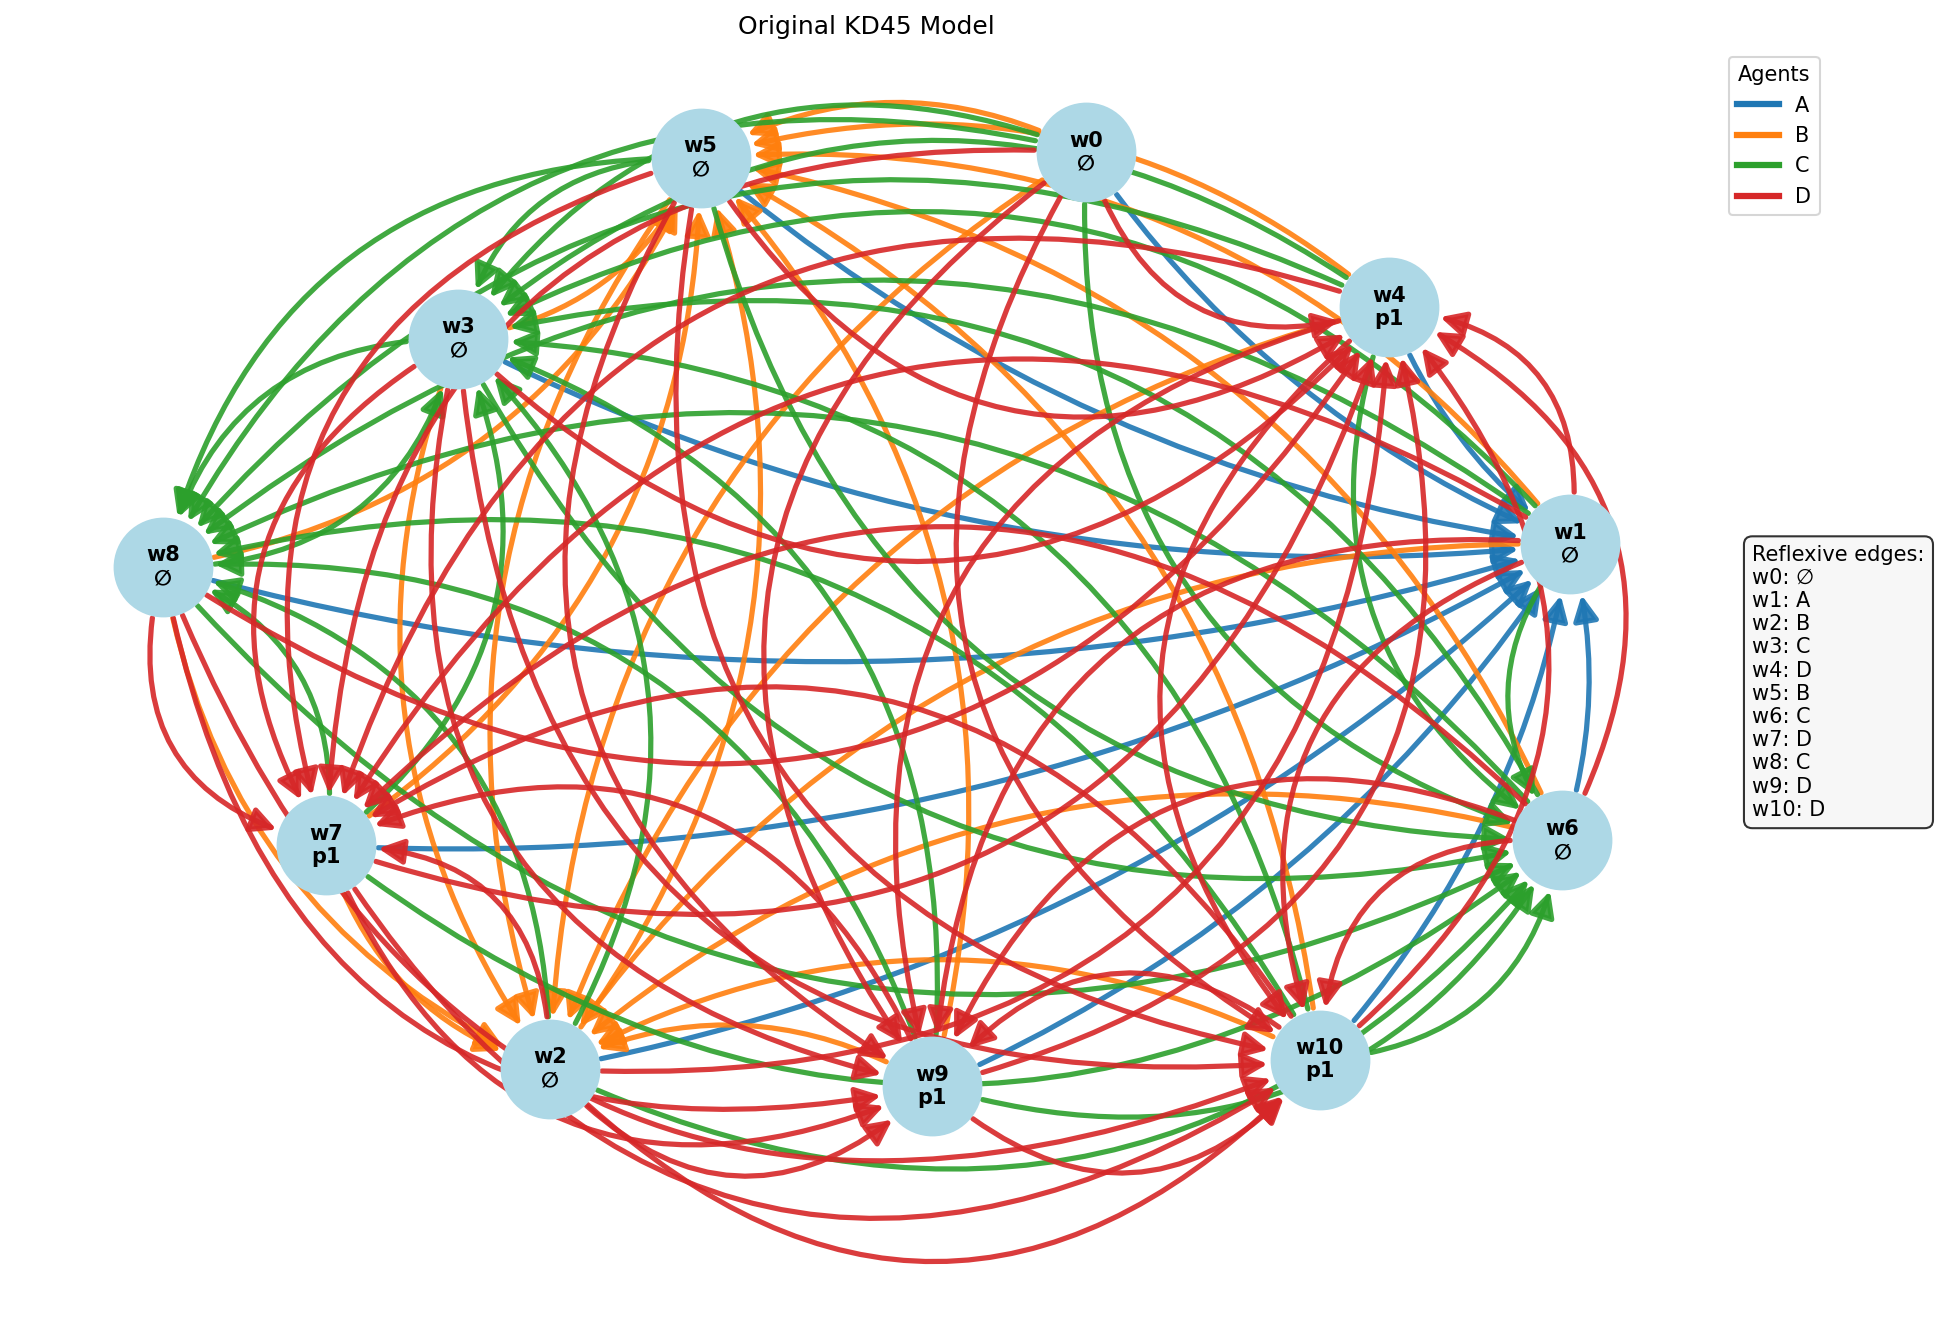
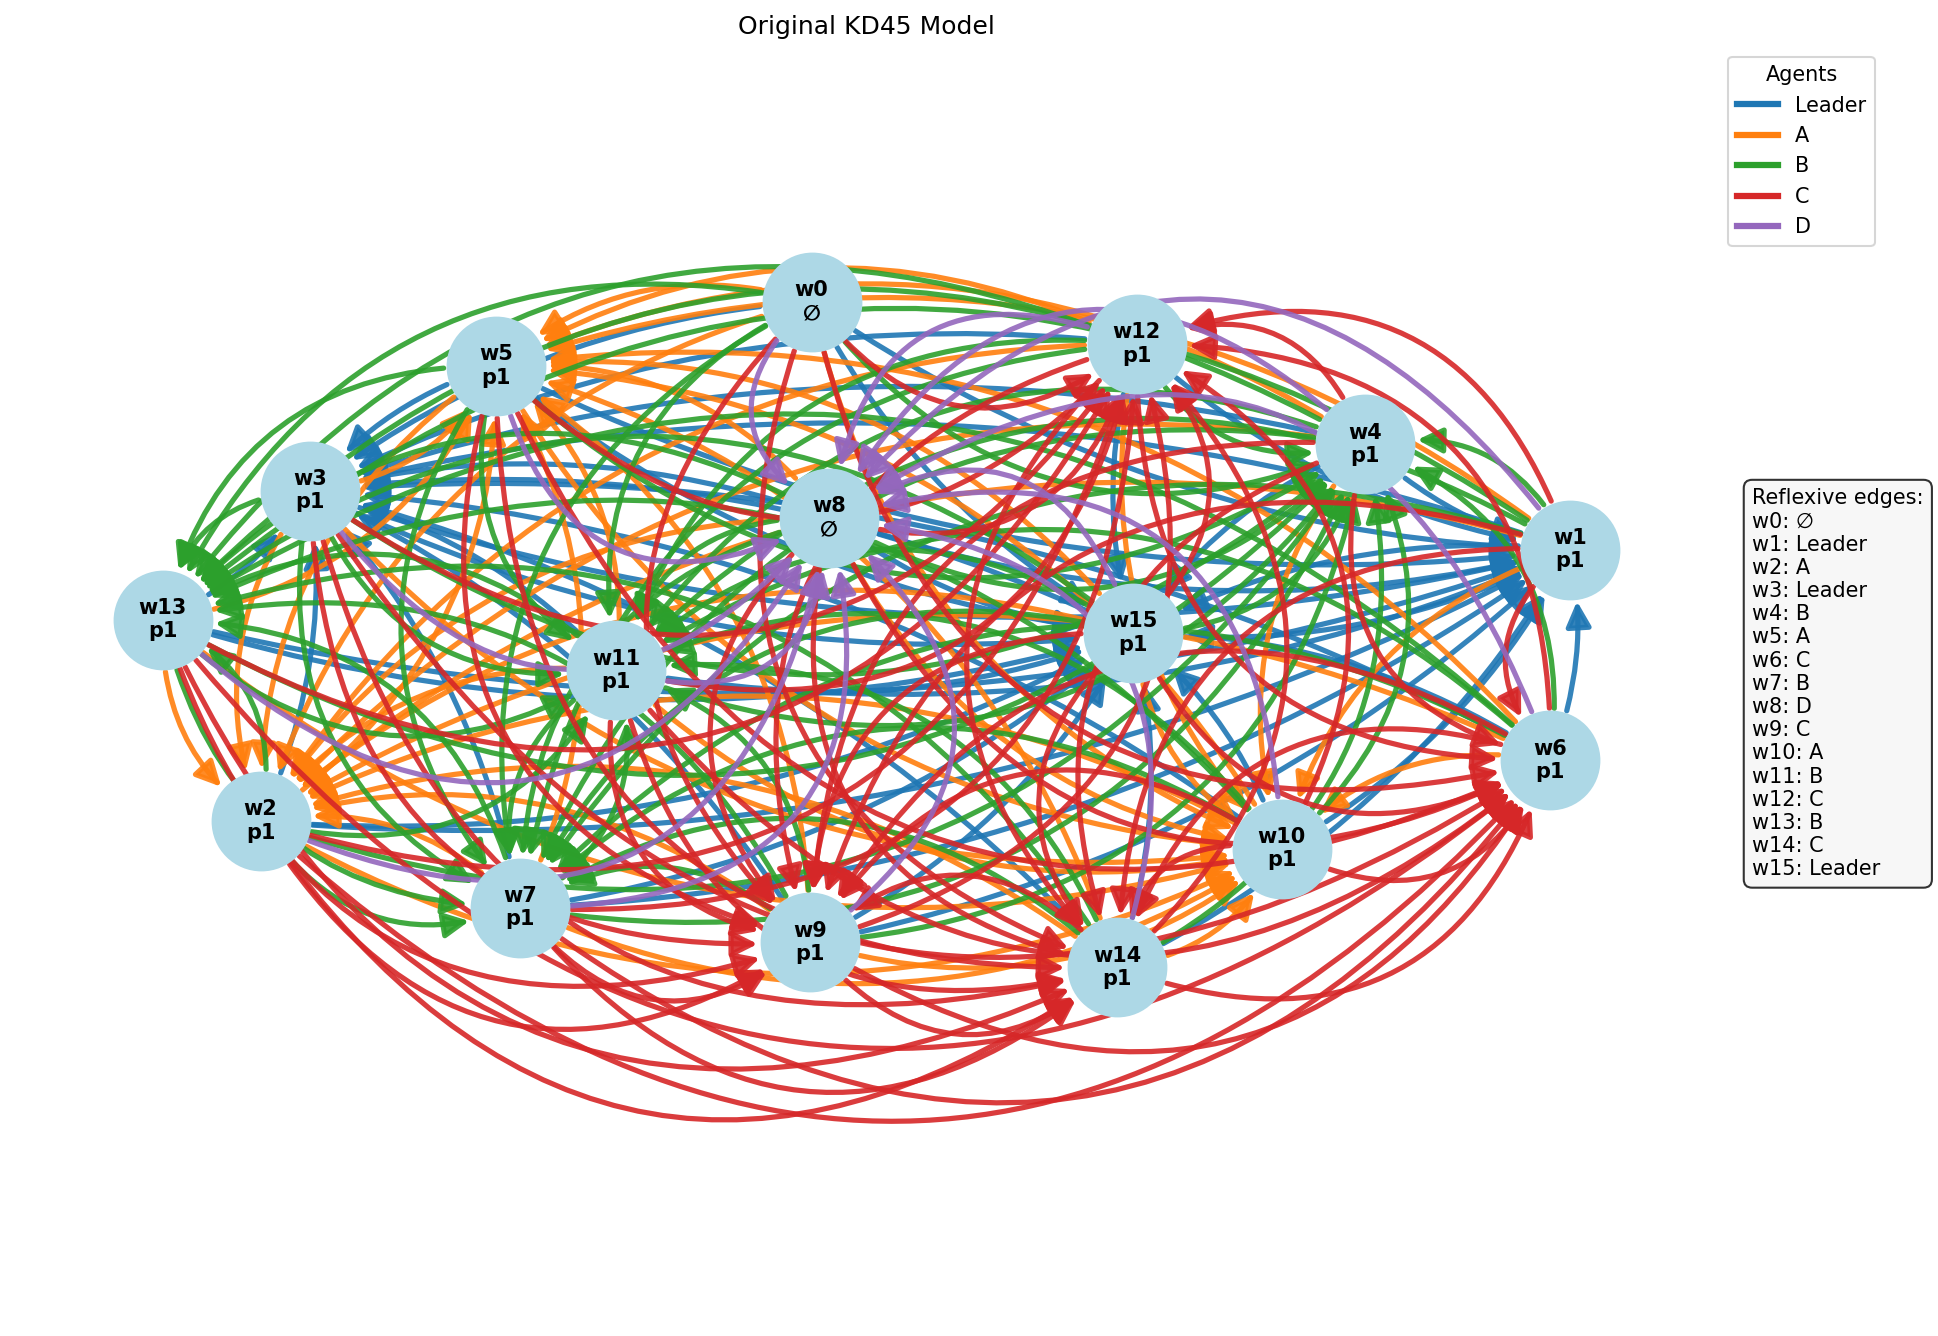
visualize n experiments

diff --git a/kripke/visualize_note.py b/kripke/visualize_note.py
@@ -1,0 +1,66 @@
+from pyvis.network import Network
+import networkx as nx
+
+
+def draw_kripke_model_interactive(model, output_file="kripke.html"):
+    G = nx.MultiDiGraph()
+
+    # --- Узлы ---
+    for w in model.worlds:
+
+        props = sorted([
+            f"p{i}"
+            for i in model.valuation.get(w, set())
+        ])
+
+        label = f"w{w}\n{','.join(props) if props else '∅'}"
+
+        G.add_node(
+            w,
+            label=label,
+            title=f"World w{w}<br>Props: {props}",
+            color="lightblue"
+        )
+
+    # --- Цвета агентов ---
+    colors = [
+        "red",
+        "blue",
+        "green",
+        "orange",
+        "purple",
+        "brown",
+        "black"
+    ]
+
+    agent_colors = {
+        agent: colors[i % len(colors)]
+        for i, agent in enumerate(model.agents)
+    }
+
+    # --- Рёбра ---
+    for agent in model.agents:
+        for (u, v) in model.relations[agent]:
+
+            G.add_edge(
+                u,
+                v,
+                label=agent,
+                color=agent_colors[agent],
+                arrows="to"
+            )
+
+    # --- Pyvis ---
+    net = Network(
+        height="850px",
+        width="100%",
+        directed=True,
+        notebook=True
+    )
+
+    net.from_nx(G)
+
+    # Physics engine
+    net.force_atlas_2based()
+
+    net.show(output_file)

diff --git a/kripke/example.py b/kripke/example.py
@@ -11,17 +11,22 @@ def main():
     sample_json = '''
     {
       "id": "2f72668afd61",
-      "topic": "AI ethics",
+      "topic": "Public opinion pressure",
       "text": "...",
-      "agents": ["A", "B", "C", "D"],
+      "agents": ["Leader", "A", "B", "C", "D"],
       "propositions": [
-        "AI is dangerous."
+        "risky_decision"
       ],
       "formulas": [
-       "B_A(B_B(B_C(B_D(p1))))",
-       "B_B(B_C(B_D(p1)))",
-       "B_C(B_D(p1))",
-       "B_D(p1)"
+        
+      "B_Leader(p1)",
+      "B_A(B_Leader(p1))",
+      "B_B(B_A(p1))",
+      "B_C(B_B(p1))",
+      "B_D(B_C(p1))",
+      "~p1",
+      "B_A(B_B(B_C(p1)))"
+      
       ],
       "depth": 3
     }

diff --git a/core/ast_parser.py b/core/ast_parser.py
@@ -27,7 +27,7 @@ def parse_formula(s: str) -> Node:
     if re.fullmatch(r"p\d+", s):
         return Proposition(s)
 
-    if s.startswith("¬"):
+    if s.startswith("¬") or s.startswith("~") or s.startswith("!") or s.startswith("not"):
         return Not(parse_formula(s[1:]))
 
     match = re.match(r"B_([A-Za-z]+)\((.*)\)", s)
